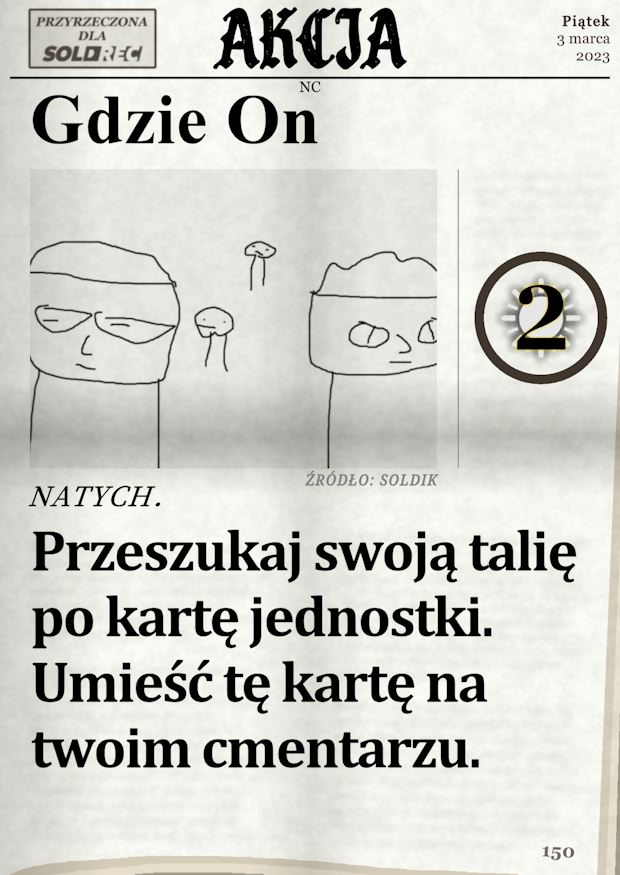
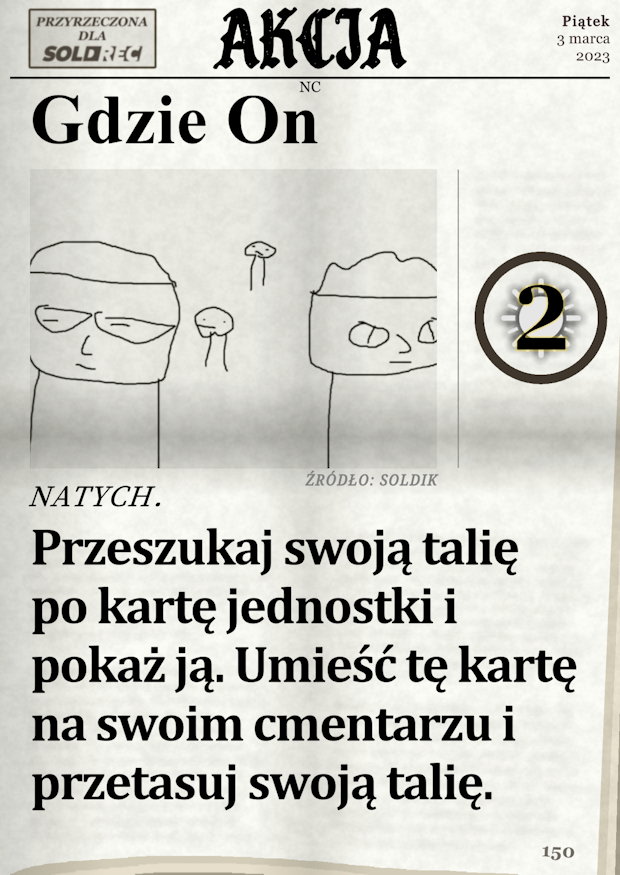
fix card 150

Changed region(s): [[0.0306, 0.5863, 0.95, 0.9257]]

diff --git a/karty/card-database/akcje/150.js b/karty/card-database/akcje/150.js
@@ -6,7 +6,7 @@ function latest() {
     const card_type = "Akcja - NATYCH.";
     const card_description = `
         <p>
-        Przeszukaj swoją talię po kartę jednostki. Umieść tę kartę na twoim cmentarzu.
+        Przeszukaj swoją talię po kartę jednostki i pokaż ją. Umieść tę kartę na swoim cmentarzu i przetasuj swoją talię.
         </p>`;
     const card_author = `
         <i>
